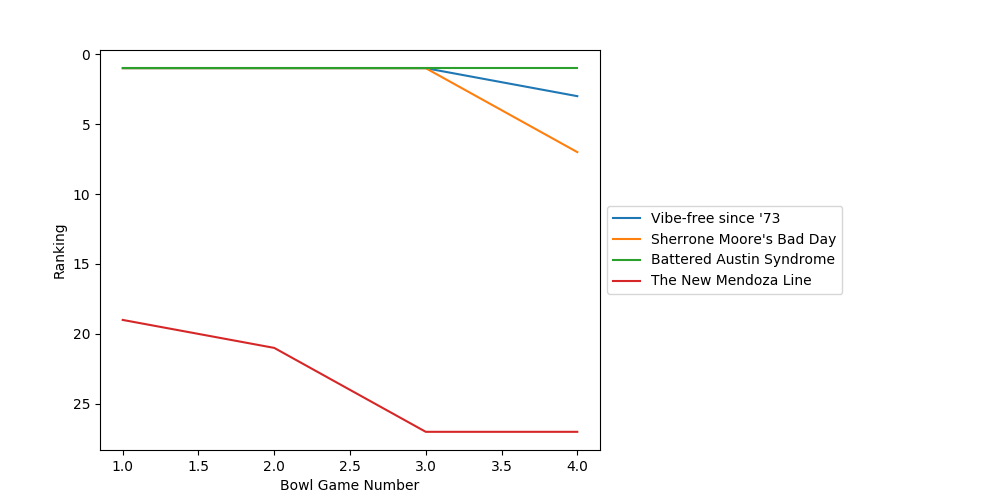
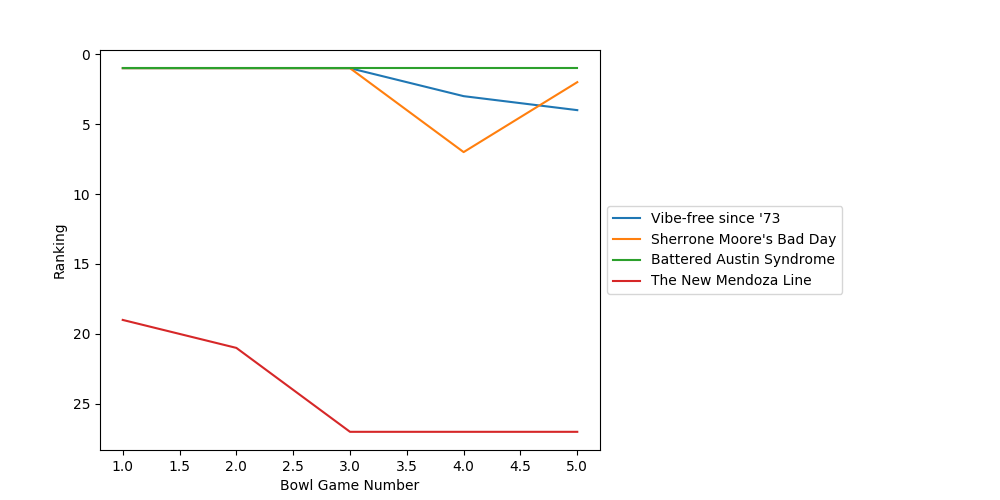
The U! +CFP

diff --git a/bowl_pool/2025-2026_CFP/rankings.html b/bowl_pool/2025-2026_CFP/rankings.html
@@ -365,31 +365,31 @@ ul.auto-toc {
 
 
 <div class="line-block">
-<div class="line"><em>Last updated:  2025-12-31 22:20:32</em></div>
-<div class="line"><em>Last bowl scored:  CFP First Round (Oregon vs. James Madison)</em></div>
+<div class="line"><em>Last updated:  2025-12-31 22:23:46</em></div>
+<div class="line"><em>Last bowl scored:  CFP Quarterfinal (Cotton) (Ohio State vs. Miami)</em></div>
 </div>
 <div class="line-block">
 <div class="line">1. <strong>Battered Austin Syndrome 11.5</strong></div>
+<div class="line">2. <strong>Sherrone Moore's Bad Day 10.5</strong></div>
 <div class="line">2. Down 10.5</div>
-<div class="line">3. <strong>Vibe-free since '73 9.5</strong></div>
-<div class="line">4. Mama Dawg 8.5</div>
-<div class="line">4. Bearly Watching 8.5</div>
-<div class="line">6. We Pay Players 8.0</div>
-<div class="line">7. <strong>Sherrone Moore's Bad Day 7.5</strong></div>
-<div class="line">8. bugaroo 7.0</div>
-<div class="line">8. Eclipse 7.0</div>
-<div class="line">8. #MamaBear 7.0</div>
-<div class="line">8. Just Call Me Dr. 7.0</div>
-<div class="line">12. Barkside Ballers 6.5</div>
-<div class="line">12. Sascha Picks Dogs 6.5</div>
-<div class="line">12. NoNND-Bo 2 6.5</div>
-<div class="line">12. Wisconsin shoud've been here 6.5</div>
-<div class="line">16. Dazed and Confoosballed 6.0</div>
-<div class="line">16. Momma Longhorn 6.0</div>
-<div class="line">16. First Round SIL 6.0</div>
-<div class="line">16. BlueOrRed 6.0</div>
-<div class="line">20. Sierra LeCat Dowdle 5.5</div>
-<div class="line">20. Call Me An Optimist 5.5</div>
+<div class="line">4. <strong>Vibe-free since '73 9.5</strong></div>
+<div class="line">4. Sascha Picks Dogs 9.5</div>
+<div class="line">4. NoNND-Bo 2 9.5</div>
+<div class="line">7. Mama Dawg 8.5</div>
+<div class="line">7. Bearly Watching 8.5</div>
+<div class="line">7. Call Me An Optimist 8.5</div>
+<div class="line">10. We Pay Players 8.0</div>
+<div class="line">11. bugaroo 7.0</div>
+<div class="line">11. Eclipse 7.0</div>
+<div class="line">11. #MamaBear 7.0</div>
+<div class="line">11. Just Call Me Dr. 7.0</div>
+<div class="line">15. Barkside Ballers 6.5</div>
+<div class="line">15. Wisconsin shoud've been here 6.5</div>
+<div class="line">17. Dazed and Confoosballed 6.0</div>
+<div class="line">17. Momma Longhorn 6.0</div>
+<div class="line">17. First Round SIL 6.0</div>
+<div class="line">17. BlueOrRed 6.0</div>
+<div class="line">21. Sierra LeCat Dowdle 5.5</div>
 <div class="line">22. Arandas legacy Year 4.0</div>
 <div class="line">22. NoNND-Bo 1 4.0</div>
 <div class="line">22. Not So New Guy 4.0</div>

diff --git a/bowl_pool/2025-2026_CFP/results.html b/bowl_pool/2025-2026_CFP/results.html
@@ -567,6 +567,39 @@ ul.auto-toc {
 <td>2.0</td>
 <td>2.0</td>
 </tr>
+<tr><td>5</td>
+<td>CFP Quarterfinal (Cotton)</td>
+<td>Ohio State</td>
+<td>Miami</td>
+<td>0.0</td>
+<td>0.0</td>
+<td>0.0</td>
+<td>0.0</td>
+<td>3.0</td>
+<td>0.0</td>
+<td>3.0</td>
+<td>0.0</td>
+<td>0.0</td>
+<td>0.0</td>
+<td>0.0</td>
+<td>0.0</td>
+<td>0.0</td>
+<td>0.0</td>
+<td>3.0</td>
+<td>0.0</td>
+<td>0.0</td>
+<td>3.0</td>
+<td>0.0</td>
+<td>0.0</td>
+<td>0.0</td>
+<td>0.0</td>
+<td>0.0</td>
+<td>0.0</td>
+<td>0.0</td>
+<td>0.0</td>
+<td>0.0</td>
+<td>0.0</td>
+</tr>
 <tr><td>B1</td>
 <td>How many TD's will Marcel Reed run for?</td>
 <td>&nbsp;</td>
@@ -674,9 +707,9 @@ ul.auto-toc {
 <td><strong>6.5</strong></td>
 <td><strong>9.5</strong></td>
 <td><strong>6.0</strong></td>
-<td><strong>6.5</strong></td>
+<td><strong>9.5</strong></td>
 <td><strong>3.0</strong></td>
-<td><strong>7.5</strong></td>
+<td><strong>10.5</strong></td>
 <td><strong>6.0</strong></td>
 <td><strong>7.0</strong></td>
 <td><strong>5.5</strong></td>
@@ -684,10 +717,10 @@ ul.auto-toc {
 <td><strong>4.0</strong></td>
 <td><strong>8.5</strong></td>
 <td><strong>4.0</strong></td>
-<td><strong>6.5</strong></td>
+<td><strong>9.5</strong></td>
 <td><strong>6.5</strong></td>
 <td><strong>8.5</strong></td>
-<td><strong>5.5</strong></td>
+<td><strong>8.5</strong></td>
 <td><strong>10.5</strong></td>
 <td><strong>7.0</strong></td>
 <td><strong>6.0</strong></td>

diff --git a/bowl_pool/2025-2026_CFP/index.html b/bowl_pool/2025-2026_CFP/index.html
@@ -366,8 +366,8 @@ ul.auto-toc {
 
 <p><strong>2025-2026_CFP Bowl Pool</strong></p>
 <div class="line-block">
-<div class="line"><em>Last updated:  2025-12-31 22:20:32</em></div>
-<div class="line"><em>Last bowl scored:  CFP First Round (Oregon vs. James Madison)</em></div>
+<div class="line"><em>Last updated:  2025-12-31 22:23:47</em></div>
+<div class="line"><em>Last bowl scored:  CFP Quarterfinal (Cotton) (Ohio State vs. Miami)</em></div>
 </div>
 <ul class="simple">
 <li><a class="reference external" href="rankings.html">Rankings</a> (<a class="reference external" href="rankings.csv">csv</a>)</li>

diff --git a/bowl_pool/2025-2026/index.html b/bowl_pool/2025-2026/index.html
@@ -366,7 +366,7 @@ ul.auto-toc {
 
 <p><strong>2025-2026 Bowl Pool</strong></p>
 <div class="line-block">
-<div class="line"><em>Last updated:  2025-12-31 22:20:33</em></div>
+<div class="line"><em>Last updated:  2025-12-31 22:23:48</em></div>
 <div class="line"><em>Last bowl scored:  CFP Quarterfinal (Cotton) (Ohio State vs. Miami)</em></div>
 </div>
 <ul class="simple">

diff --git a/bowl_pool/2025-2026_Non-CFP/index.html b/bowl_pool/2025-2026_Non-CFP/index.html
@@ -366,7 +366,7 @@ ul.auto-toc {
 
 <p><strong>2025-2026_Non-CFP Bowl Pool</strong></p>
 <div class="line-block">
-<div class="line"><em>Last updated:  2025-12-31 22:20:31</em></div>
+<div class="line"><em>Last updated:  2025-12-31 22:23:45</em></div>
 <div class="line"><em>Last bowl scored:  LAS VEGAS BOWL (Utah vs. Nebraska)</em></div>
 </div>
 <ul class="simple">

diff --git a/bowl_pool/2025-2026/rankings.html b/bowl_pool/2025-2026/rankings.html
@@ -365,7 +365,7 @@ ul.auto-toc {
 
 
 <div class="line-block">
-<div class="line"><em>Last updated:  2025-12-31 22:20:33</em></div>
+<div class="line"><em>Last updated:  2025-12-31 22:23:47</em></div>
 <div class="line"><em>Last bowl scored:  CFP Quarterfinal (Cotton) (Ohio State vs. Miami)</em></div>
 </div>
 <div class="line-block">

diff --git a/bowl_pool/2025-2026_Non-CFP/rankings.html b/bowl_pool/2025-2026_Non-CFP/rankings.html
@@ -365,7 +365,7 @@ ul.auto-toc {
 
 
 <div class="line-block">
-<div class="line"><em>Last updated:  2025-12-31 22:20:30</em></div>
+<div class="line"><em>Last updated:  2025-12-31 22:23:45</em></div>
 <div class="line"><em>Last bowl scored:  LAS VEGAS BOWL (Utah vs. Nebraska)</em></div>
 </div>
 <div class="line-block">
